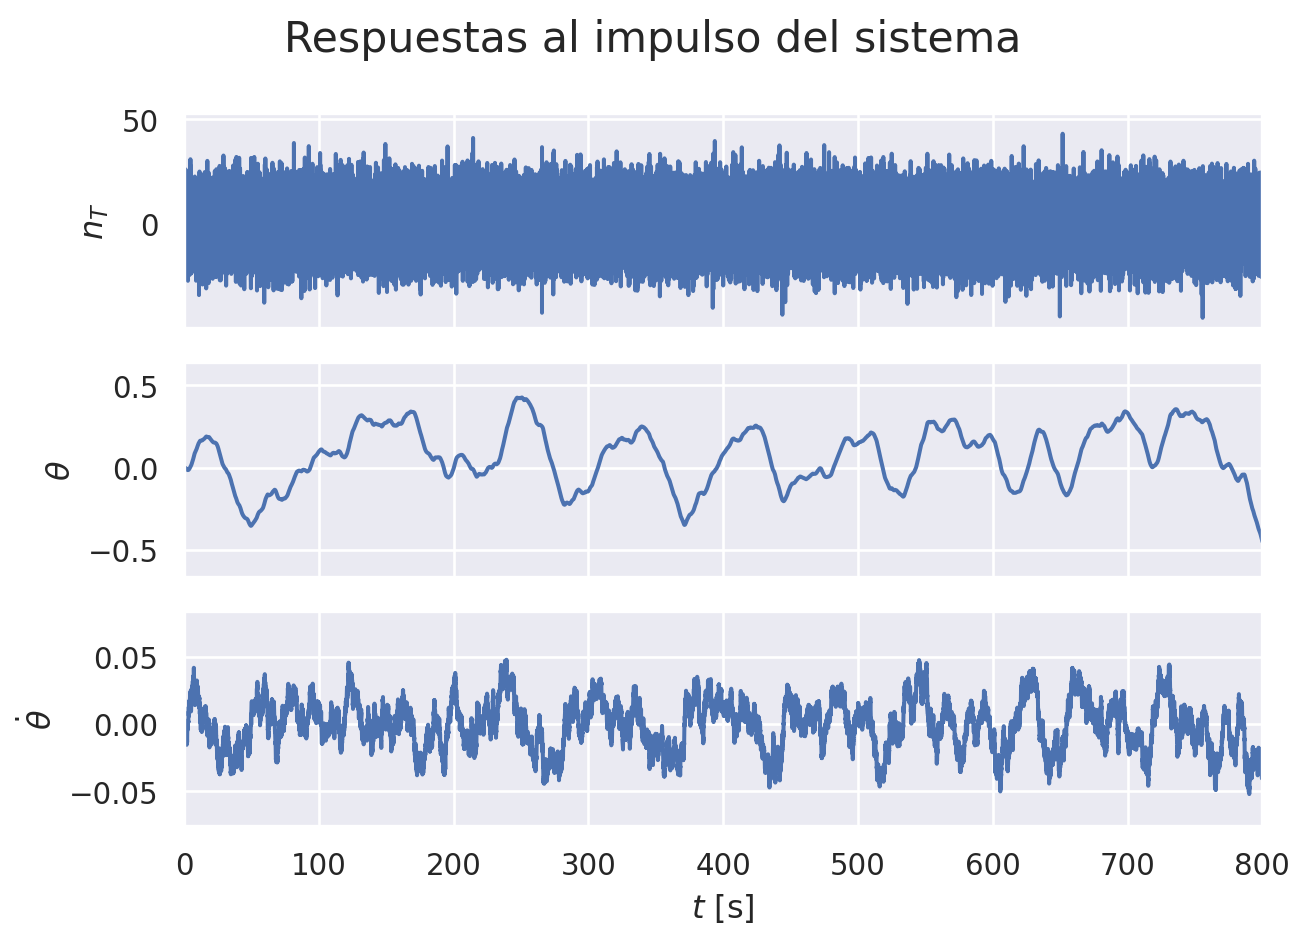
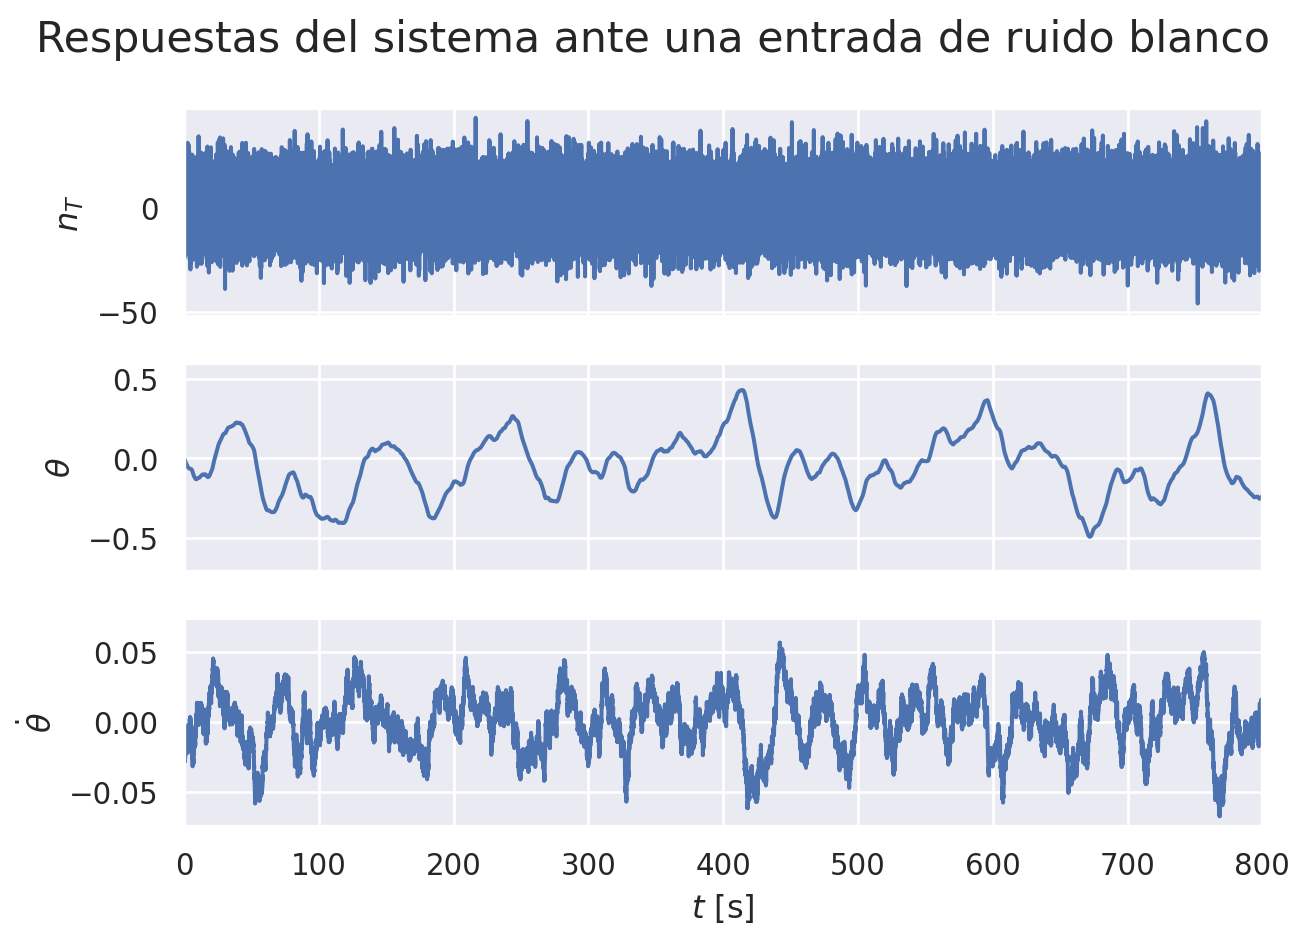
Publish

diff --git a/docs/TP1_Propagación_Ruido_LTI.html b/docs/TP1_Propagación_Ruido_LTI.html
@@ -206,7 +206,7 @@ window.Quarto = {
 <img src="Images/fig1.svg" class="img-fluid figure-img">
 </div>
 <figcaption class="quarto-float-caption-bottom quarto-float-caption quarto-float-fig" id="fig-1-caption-0ceaefa1-69ba-4598-a22c-09a6ac19f8ca">
-Figura&nbsp;1: Diagrama
+Figura&nbsp;1: Esquema del sistema.
 </figcaption>
 </figure>
 </div>
@@ -217,7 +217,7 @@ Figura&nbsp;1: Diagrama
 <img src="Images/fig2.svg" class="img-fluid figure-img">
 </div>
 <figcaption class="quarto-float-caption-bottom quarto-float-caption quarto-float-fig" id="fig-2-caption-0ceaefa1-69ba-4598-a22c-09a6ac19f8ca">
-Figura&nbsp;2: Diagrama
+Figura&nbsp;2: Diagrama en bloques del sistema sin ruido.
 </figcaption>
 </figure>
 </div>
@@ -247,6 +247,12 @@ Js^2 \Theta(s) = C_p (\Theta_{ref}(s) - \Theta(s)) - C_d s \Theta(s)
 \omega_n = \sqrt{\frac{C_p}{J}}, \qquad \xi = \frac{1}{2}\frac{C_d}{\sqrt{JC_p}}.
 \tag{6}\]</span></span></p>
 <p>Si se consideran los valores dados en la tabla</p>
+<div id="tbl-1" class="quarto-float quarto-figure quarto-figure-center anchored">
+<figure class="quarto-float quarto-float-tbl figure">
+<figcaption class="quarto-float-caption-top quarto-float-caption quarto-float-tbl" id="tbl-1-caption-0ceaefa1-69ba-4598-a22c-09a6ac19f8ca">
+Tabla&nbsp;1: Datos del problema
+</figcaption>
+<div aria-describedby="tbl-1-caption-0ceaefa1-69ba-4598-a22c-09a6ac19f8ca">
 <table class="caption-top table">
 <thead>
 <tr class="header">
@@ -269,7 +275,16 @@ Js^2 \Theta(s) = C_p (\Theta_{ref}(s) - \Theta(s)) - C_d s \Theta(s)
 </tr>
 </tbody>
 </table>
+</div>
+</figure>
+</div>
 <p>Se obtienen los valores de <span class="math inline">\(C_d\)</span> y <span class="math inline">\(C_p\)</span>,</p>
+<div id="tbl-2" class="quarto-float quarto-figure quarto-figure-center anchored">
+<figure class="quarto-float quarto-float-tbl figure">
+<figcaption class="quarto-float-caption-top quarto-float-caption quarto-float-tbl" id="tbl-2-caption-0ceaefa1-69ba-4598-a22c-09a6ac19f8ca">
+Tabla&nbsp;2: Parámetros del sistema calculados a partir de los datos del problema
+</figcaption>
+<div aria-describedby="tbl-2-caption-0ceaefa1-69ba-4598-a22c-09a6ac19f8ca">
 <table class="caption-top table">
 <thead>
 <tr class="header">
@@ -291,7 +306,10 @@ Js^2 \Theta(s) = C_p (\Theta_{ref}(s) - \Theta(s)) - C_d s \Theta(s)
 </tr>
 </tbody>
 </table>
-<div id="e72f4512" class="cell" data-execution_count="1">
+</div>
+</figure>
+</div>
+<div id="a866b264" class="cell" data-execution_count="1">
 <details class="code-fold">
 <summary>Código</summary>
 <div class="sourceCode cell-code" id="cb1"><pre class="sourceCode python code-with-copy"><code class="sourceCode python"><span id="cb1-1"><a href="#cb1-1" aria-hidden="true" tabindex="-1"></a>J <span class="op">=</span> <span class="dv">1000</span></span>
@@ -319,7 +337,7 @@ Js^2 \Theta(s) = C_p (\Theta_{ref}(s) - \Theta(s)) - C_d s \Theta(s)
 <img src="Images/fig3.svg" class="img-fluid figure-img">
 </div>
 <figcaption class="quarto-float-caption-bottom quarto-float-caption quarto-float-fig" id="fig-3-caption-0ceaefa1-69ba-4598-a22c-09a6ac19f8ca">
-Figura&nbsp;3: Diagrama
+Figura&nbsp;3: Diagrama de bloques del sistema considerando fuentes de ruido.
 </figcaption>
 </figure>
 </div>
@@ -385,7 +403,7 @@ H_{P0}(s) = \dfrac{1}{Js^2+C_d s + C_p}&amp;
 H_{P1}(s) = \dfrac{s}{Js^2+C_d s + C_p}\\
 \end{matrix}
 \tag{14}\]</span></span></p>
-<div id="176770ec" class="cell" data-execution_count="2">
+<div id="f8ee222f" class="cell" data-execution_count="2">
 <details class="code-fold">
 <summary>Código</summary>
 <div class="sourceCode cell-code" id="cb2"><pre class="sourceCode python code-with-copy"><code class="sourceCode python"><span id="cb2-1"><a href="#cb2-1" aria-hidden="true" tabindex="-1"></a><span class="im">import</span> scipy.signal <span class="im">as</span> signal</span>
@@ -511,7 +529,7 @@ Figura&nbsp;5: Respuestas al impulso de las fuentes de ruido sobre la velocidad 
 <span id="cb5-11"><a href="#cb5-11" aria-hidden="true" tabindex="-1"></a>T, vel, _ <span class="op">=</span> signal.lsim(H_t1, n_t, t)</span>
 <span id="cb5-12"><a href="#cb5-12" aria-hidden="true" tabindex="-1"></a></span>
 <span id="cb5-13"><a href="#cb5-13" aria-hidden="true" tabindex="-1"></a>fig, ax <span class="op">=</span> plt.subplots(<span class="dv">3</span>,<span class="dv">1</span>, sharex<span class="op">=</span><span class="va">True</span>)</span>
-<span id="cb5-14"><a href="#cb5-14" aria-hidden="true" tabindex="-1"></a>fig.suptitle(<span class="st">'Respuestas al impulso del sistema'</span>, fontsize<span class="op">=</span><span class="dv">16</span>)</span>
+<span id="cb5-14"><a href="#cb5-14" aria-hidden="true" tabindex="-1"></a>fig.suptitle(<span class="st">'Respuestas del sistema ante una entrada de ruido blanco'</span>, fontsize<span class="op">=</span><span class="dv">16</span>)</span>
 <span id="cb5-15"><a href="#cb5-15" aria-hidden="true" tabindex="-1"></a>ax[<span class="dv">0</span>].plot(T, n_t)</span>
 <span id="cb5-16"><a href="#cb5-16" aria-hidden="true" tabindex="-1"></a>ax[<span class="dv">1</span>].plot(T, pos)</span>
 <span id="cb5-17"><a href="#cb5-17" aria-hidden="true" tabindex="-1"></a>ax[<span class="dv">2</span>].plot(T, vel)</span>
@@ -544,7 +562,7 @@ Figura&nbsp;6: Respuestas del sistema ante una entrada de ruido blanco
   \text{MSV}(\mathbf{x}) = \frac{1}{N}\sum_{t=0}^{N-1}x^2[t]
 \]</span></p>
 <p>Los resultados para la realización vista en la <a href="#fig-ruido" class="quarto-xref">Figura&nbsp;6</a> se presentan a continuación</p>
-<div id="5f6293e2" class="cell" data-execution_count="6">
+<div id="2342868a" class="cell" data-execution_count="6">
 <details class="code-fold">
 <summary>Código</summary>
 <div class="sourceCode cell-code" id="cb6"><pre class="sourceCode python code-with-copy"><code class="sourceCode python"><span id="cb6-1"><a href="#cb6-1" aria-hidden="true" tabindex="-1"></a><span class="kw">def</span> round_sig_figs(value, sig_figs):</span>
@@ -563,9 +581,9 @@ Figura&nbsp;6: Respuestas del sistema ante una entrada de ruido blanco
 <span id="cb6-14"><a href="#cb6-14" aria-hidden="true" tabindex="-1"></a><span class="bu">print</span>(<span class="ss">f"Valor cuadrático medio de la velocidad angular:</span><span class="ch">\t</span><span class="ss"> </span><span class="sc">{</span>round_sig_figs(msv_vel, <span class="dv">3</span>)<span class="sc">}</span><span class="ss">"</span>)</span></code><button title="Copiar al portapapeles" class="code-copy-button"><i class="bi"></i></button></pre></div>
 </details>
 <div class="cell-output cell-output-stdout">
-<pre><code>Valor cuadrático medio del ruido de entrada:     100.0
-Valor cuadrático medio de la posición angular:   0.0335
-Valor cuadrático medio de la velocidad angular:  0.000343</code></pre>
+<pre><code>Valor cuadrático medio del ruido de entrada:     99.9
+Valor cuadrático medio de la posición angular:   0.0359
+Valor cuadrático medio de la velocidad angular:  0.000372</code></pre>
 </div>
 </div>
 </section>
@@ -618,19 +636,19 @@ S_{\dot\theta}(f) &amp;= \left| H_{T1}(j2\pi f) \right|^2 S_{N_T}(f)
 <img src="TP1_Propagación_Ruido_LTI_files/figure-html/fig-dep-output-1.png" width="615" height="488" class="figure-img">
 </div>
 <figcaption class="quarto-float-caption-bottom quarto-float-caption quarto-float-fig" id="fig-dep-caption-0ceaefa1-69ba-4598-a22c-09a6ac19f8ca">
-Figura&nbsp;7: Respuestas del sistema ante una entrada de ruido blanco
+Figura&nbsp;7: Distribución espectral de potencia de las salidas del sistema ante una entrada de ruido blanco
 </figcaption>
 </figure>
 </div>
 </div>
 </div>
-<p>La <a href="#fig-dep" class="quarto-xref">Figura&nbsp;7</a> indica que <span class="math inline">\(H_{T0}\)</span> actúa como un filtro pasa bajo, mientras que <span class="math inline">\(H_{T1}\)</span> actúa como un filtro pasa banda. Esto es consistente con un análisis cualitativo de las formas de onda presentadas en la <a href="#fig-ruido" class="quarto-xref">Figura&nbsp;6</a>.</p>
+<p>La <a href="#fig-dep" class="quarto-xref">Figura&nbsp;7</a> indica que <span class="math inline">\(H_{T0}\)</span> actúa como un filtro pasa bajo, mientras que <span class="math inline">\(H_{T1}\)</span> actúa como un filtro pasa banda. Esto es consistente con un análisis cualitativo de las formas de onda presentadas en la <a href="#fig-ruido" class="quarto-xref">Figura&nbsp;6</a>, así como de las tranferencias presentadas en la <a href="#eq-H_redux" class="quarto-xref">Ecuación&nbsp;13</a>.</p>
 <p>Finalmente, se calcula el valor cuadrático medio teórico de las señales, dado por</p>
 <p><span class="math display">\[
   \text{MSV}(\mathbf{x}) = \int_{-\infty}^{\infty} S_X(f) df
 \]</span></p>
 <p>Los resultados utilizando integración numérica se presentan a continuación.</p>
-<div id="b2d0ad15" class="cell" data-execution_count="8">
+<div id="85d22962" class="cell" data-execution_count="8">
 <details class="code-fold">
 <summary>Código</summary>
 <div class="sourceCode cell-code" id="cb9"><pre class="sourceCode python code-with-copy"><code class="sourceCode python"><span id="cb9-1"><a href="#cb9-1" aria-hidden="true" tabindex="-1"></a>f <span class="op">=</span> np.fft.fftshift(f)</span>
